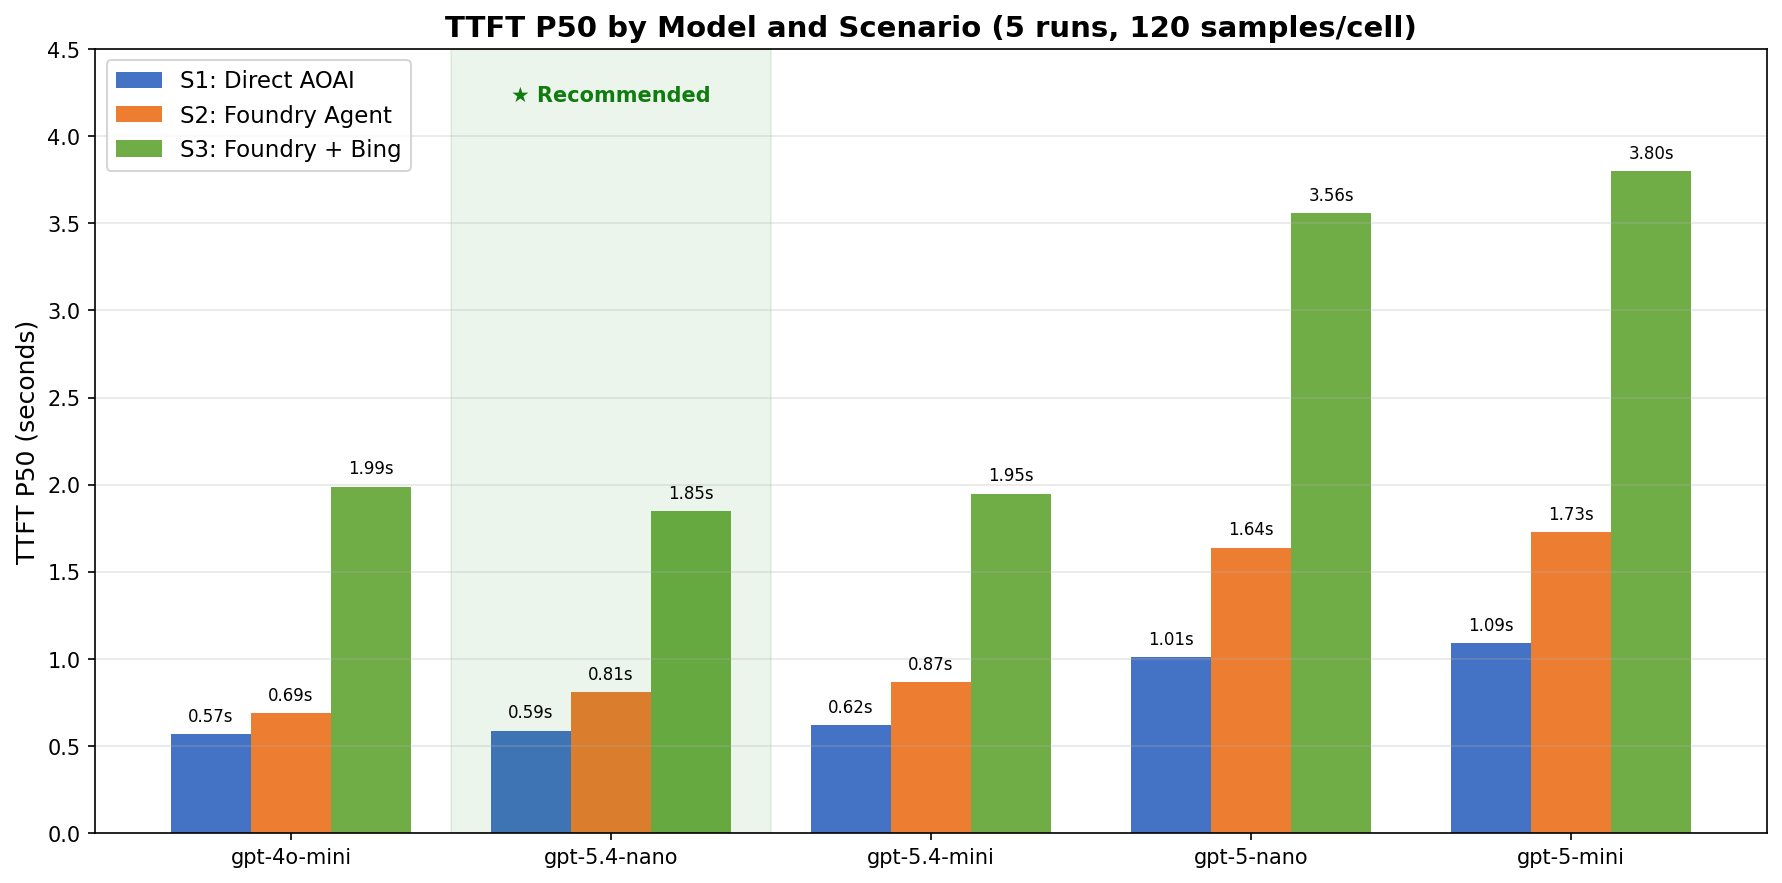
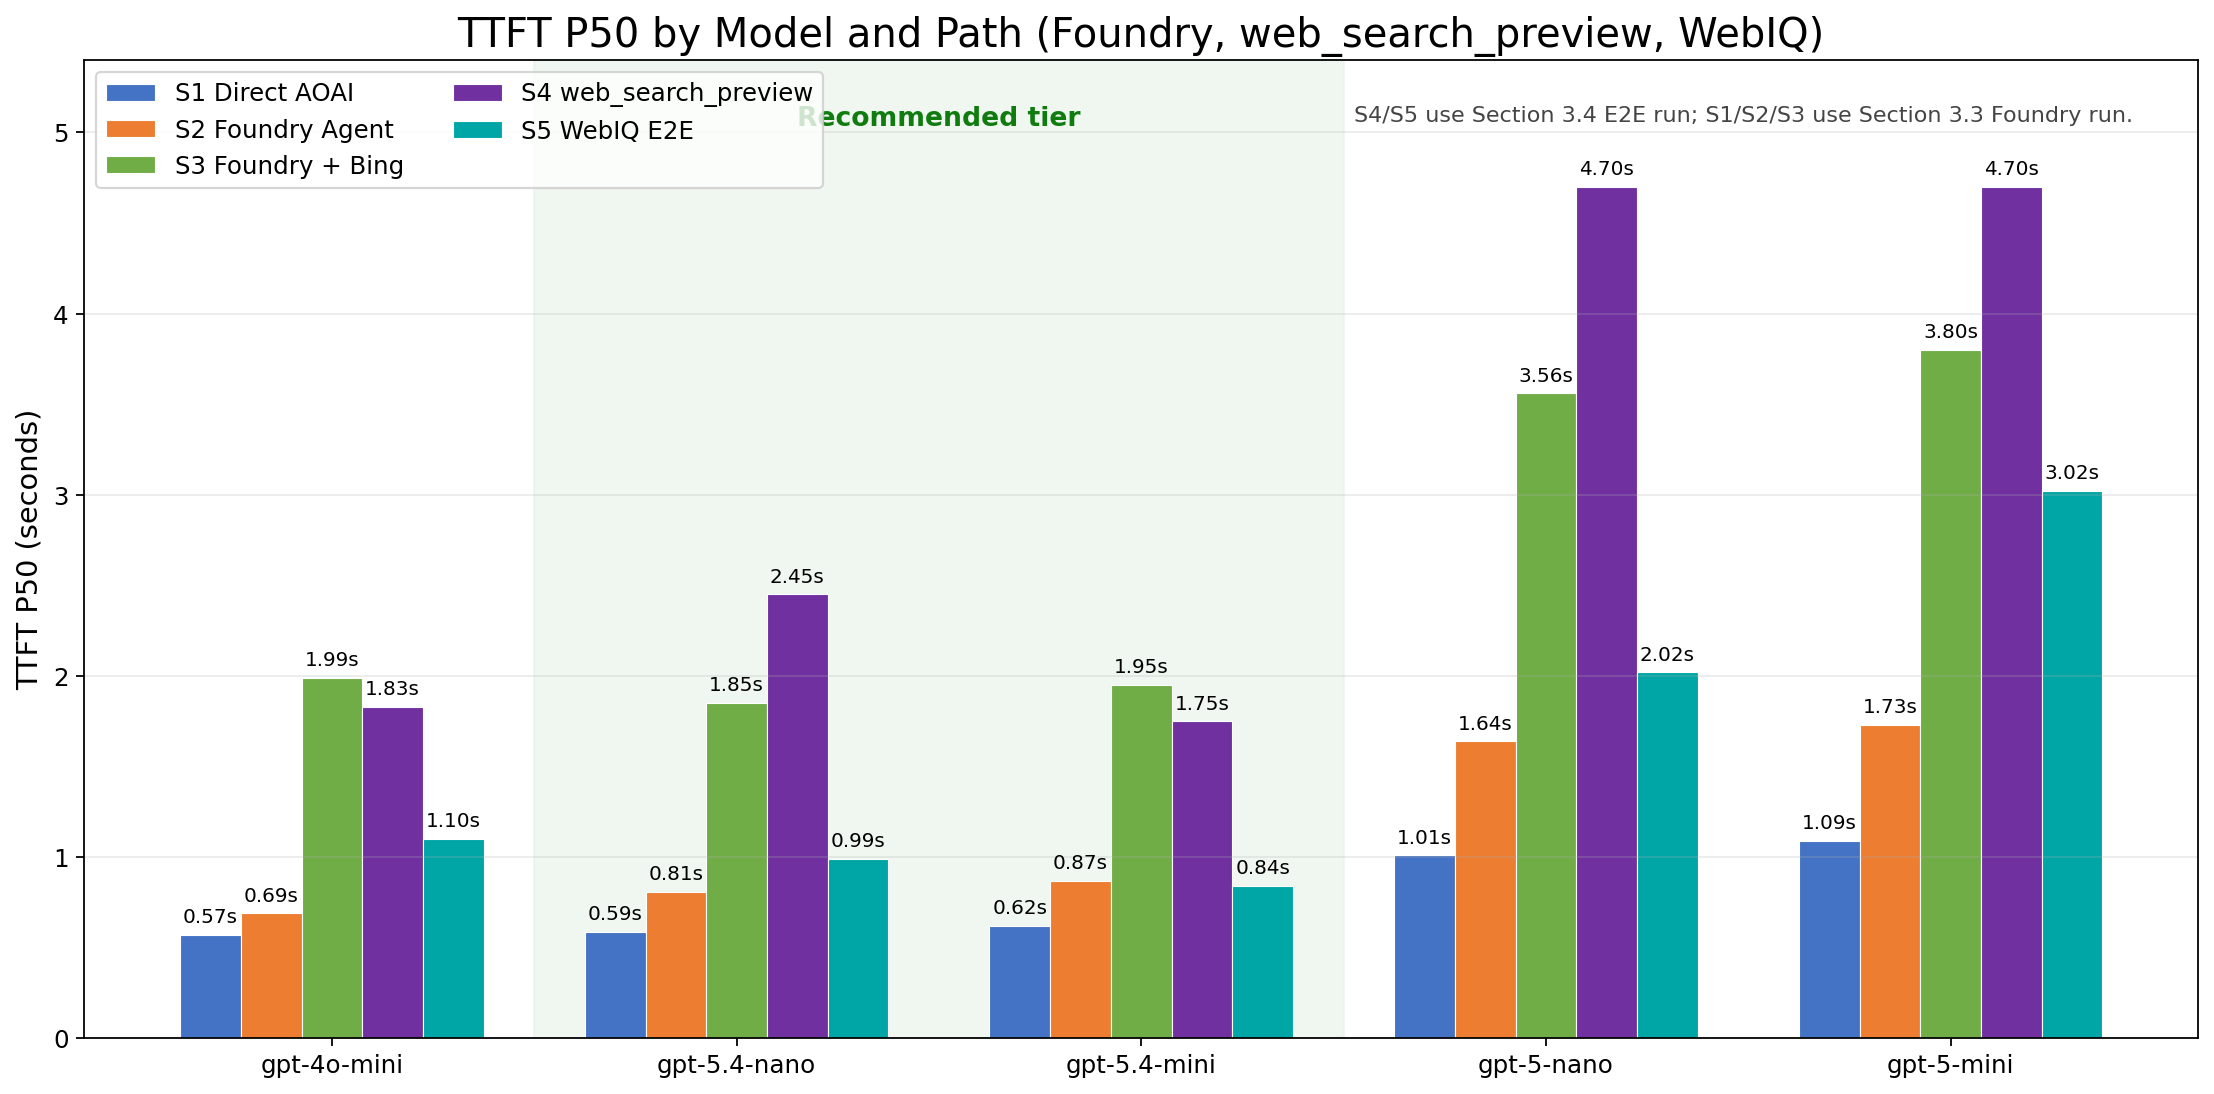
docs: include WebIQ in benchmark charts

diff --git a/Agents/AOAI-Model-Migration-Benchmark/README.md b/Agents/AOAI-Model-Migration-Benchmark/README.md
@@ -363,11 +363,11 @@ API: `responses.create(agent_reference=..., tool_choice="required", stream=True)
 
 > 5 runs merged, 40 effective samples per query per model.
 
-#### TTFT Overview (Foundry+Bing Only)
+#### TTFT Overview (Foundry+Bing + web_search + WebIQ)
 
 ![TTFT P50 by Model and Scenario](images/ttft_by_scenario.png)
 
-> This chart covers only the Foundry Agent alternative path in Section 3.3. The WebIQ E2E comparison is shown separately in Section 3.4.
+> This chart combines the 5-run Foundry Agent dataset (S1/S2/S3) with the WebIQ E2E comparison run (S4/S5), so every web-grounded path is visible in one view. S5 uses the 7-iteration WebIQ run from Section 3.4.
 
 #### 3.3.3 Summary (Foundry+Bing, 5 runs merged, 120 samples/model/scenario)
 
@@ -388,9 +388,11 @@ API: `responses.create(agent_reference=..., tool_choice="required", stream=True)
 | **Bing overhead** | +1.30s | **+1.04s** | +1.08s | +1.93s | +2.07s |
 | **Foundry+Bing total** (P50) | 1.99s | **1.85s** | 1.95s | 3.56s | 3.80s |
 
-#### Latency Decomposition Chart
+#### Latency Decomposition Chart — Foundry+Bing vs web_search vs WebIQ
 
 ![Latency Decomposition](images/latency_decomposition.png)
+
+> The grouped bars compare S3 Foundry+Bing, S4 built-in `web_search_preview`, and S5 WebIQ explicit retrieval. S4/S5 overheads are computed from the Section 3.4 S1/S4/S5 run, while S3 uses the 5-run Foundry dataset in Section 3.3.
 
 #### Key Findings (Foundry+Bing)
 

diff --git a/Agents/AOAI-Model-Migration-Benchmark/README-CN.md b/Agents/AOAI-Model-Migration-Benchmark/README-CN.md
@@ -363,11 +363,11 @@ API：`responses.create(agent_reference=..., tool_choice="required", stream=True
 
 > 5 轮合并，每 query 每模型 40 有效样本。
 
-#### TTFT 总览（仅 Foundry+Bing）
+#### TTFT 总览（Foundry+Bing + web_search + WebIQ）
 
 ![TTFT P50 by Model and Scenario](images/ttft_by_scenario.png)
 
-> 这张图只覆盖 Section 3.3 的 Foundry Agent 备选路径；WebIQ 的 S1/S4/S5 E2E 对比见 Section 3.4。
+> 这张图将 5 轮 Foundry Agent 数据集（S1/S2/S3）和 WebIQ E2E 对比运行（S4/S5）放在同一视图里，确保所有 web-grounded 路径都可见。S5 使用 Section 3.4 的 7 轮 WebIQ run。
 
 #### 3.3.3 汇总（Foundry+Bing，5 轮合并，120 样本/模型/场景）
 
@@ -388,9 +388,11 @@ API：`responses.create(agent_reference=..., tool_choice="required", stream=True
 | **Bing 搜索开销** | +1.30s | **+1.04s** | +1.08s | +1.93s | +2.07s |
 | **Foundry+Bing 总计** (P50) | 1.99s | **1.85s** | 1.95s | 3.56s | 3.80s |
 
-#### 延迟分层图
+#### 延迟分层图 — Foundry+Bing vs web_search vs WebIQ
 
 ![延迟分层图](images/latency_decomposition.png)
+
+> 分组堆叠条分别对比 S3 Foundry+Bing、S4 内置 `web_search_preview` 和 S5 WebIQ 显式 retrieval。S4/S5 overhead 来自 Section 3.4 的 S1/S4/S5 run；S3 使用 Section 3.3 的 5 轮 Foundry 数据集。
 
 #### 主要结论（Foundry+Bing）
 
